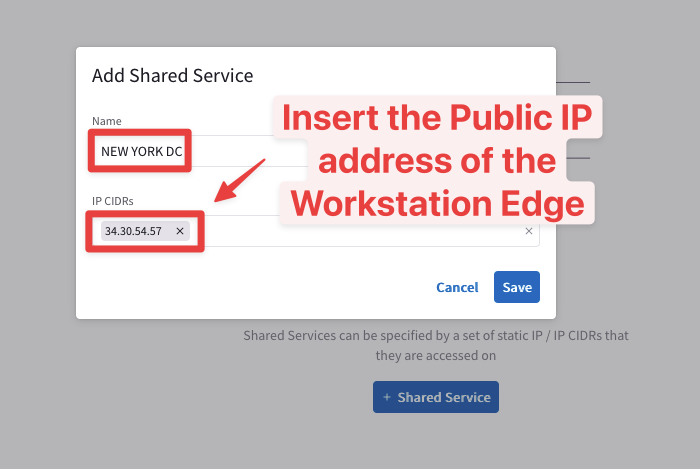
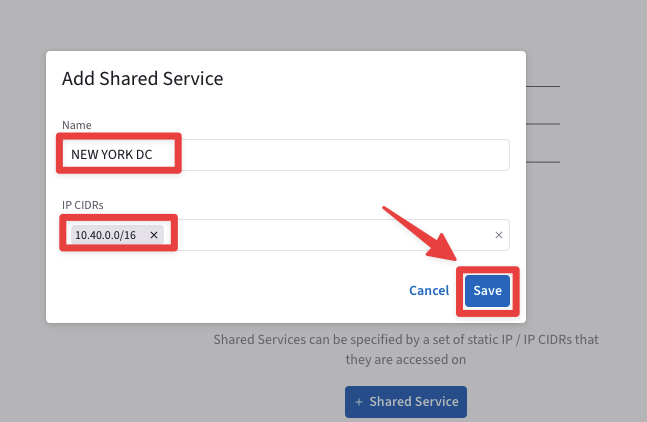
update for pro

Changed region(s): [[0.0618, 0.0924, 0.8964, 0.7701], [0.34, 0.8009, 0.9274, 1.0], [0.5873, 0.4929, 0.6491, 0.5545]]

diff --git a/ace_pro/docs/lab9.md b/ace_pro/docs/lab9.md
@@ -441,26 +441,24 @@ align: center
 Cost Centers Overview
 ```
 
-Now let's discover the **Public IP address** of the `Workstation Edge` in the **New York DC**. 
+Now let's discover the **CIDRs** of **New York DC**:
 
-- Copy the DNS name available on your POD portal and resolve it using the `host/nslookup` command.
-
-```{tip}
-Check the `"Lab 7 and 8"` section on your POD Portal!
-```
+- Go to **CoPilot > Diagnostics > Cloud Routes > BGP Info**, then click on the three dots icon and select the `"Show BGP Learned Routes"`.
 
 ```{figure} images/lab9-costiq10.png
 ---
 align: center
 ---
-Edge's dns name workstation
+Show BGP Learned Routes
 ```
 
-```{figure} images/lab9-costiq11.png
+You will find out that all the local subnets advertised by the DC belong to the cidr *10.40.0.0/16*.
+
+```{figure} images/lab9-cidr.png
 ---
 align: center
 ---
-Host command in action
+CIDR
 ```
 
 Let's move on the Shared Service tab and click on `"+ Shared Service"`.
